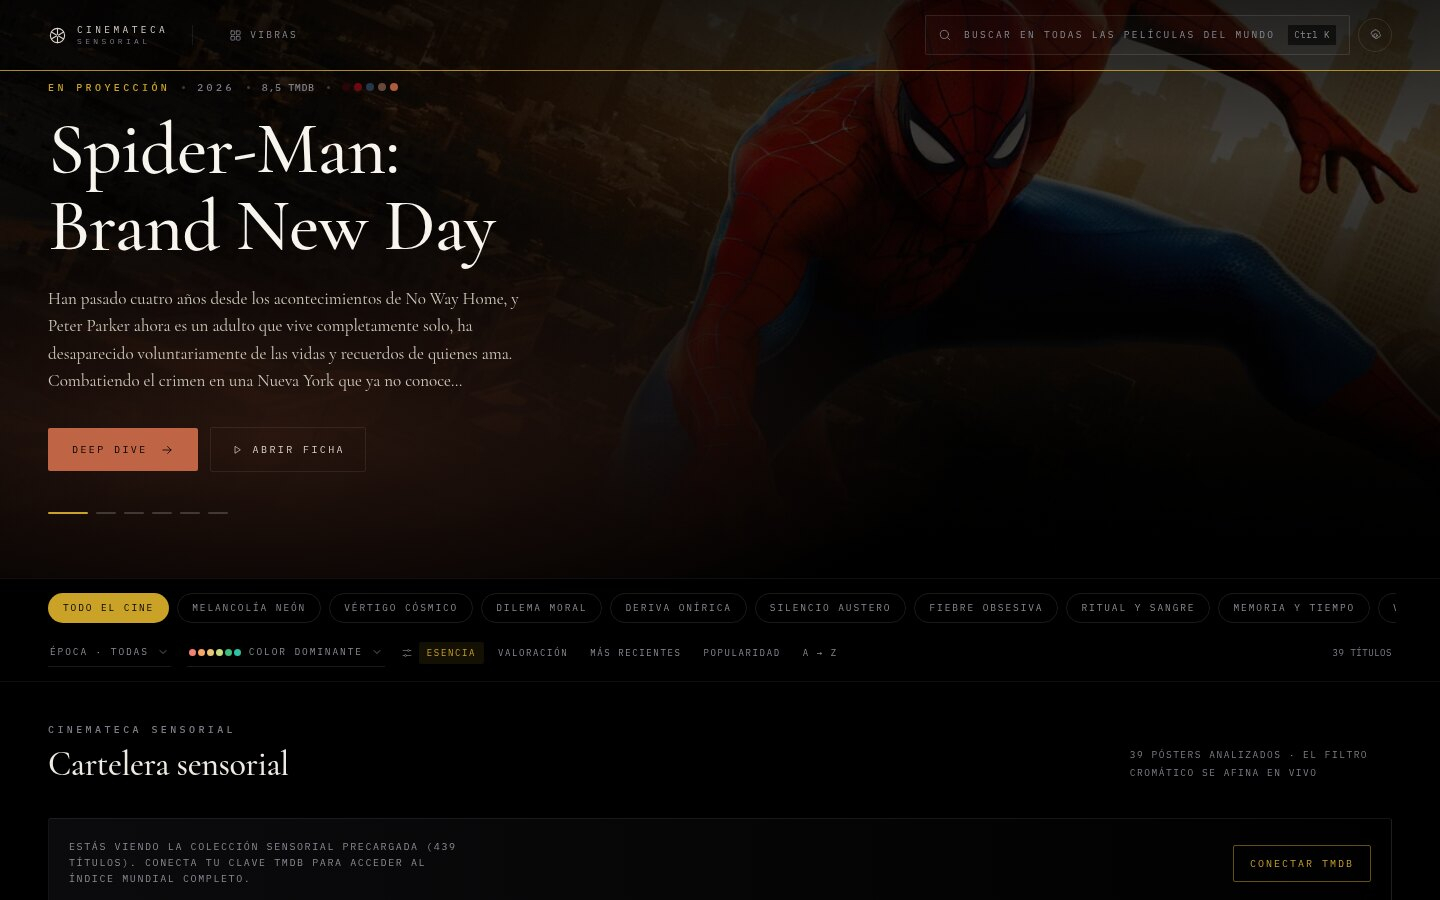
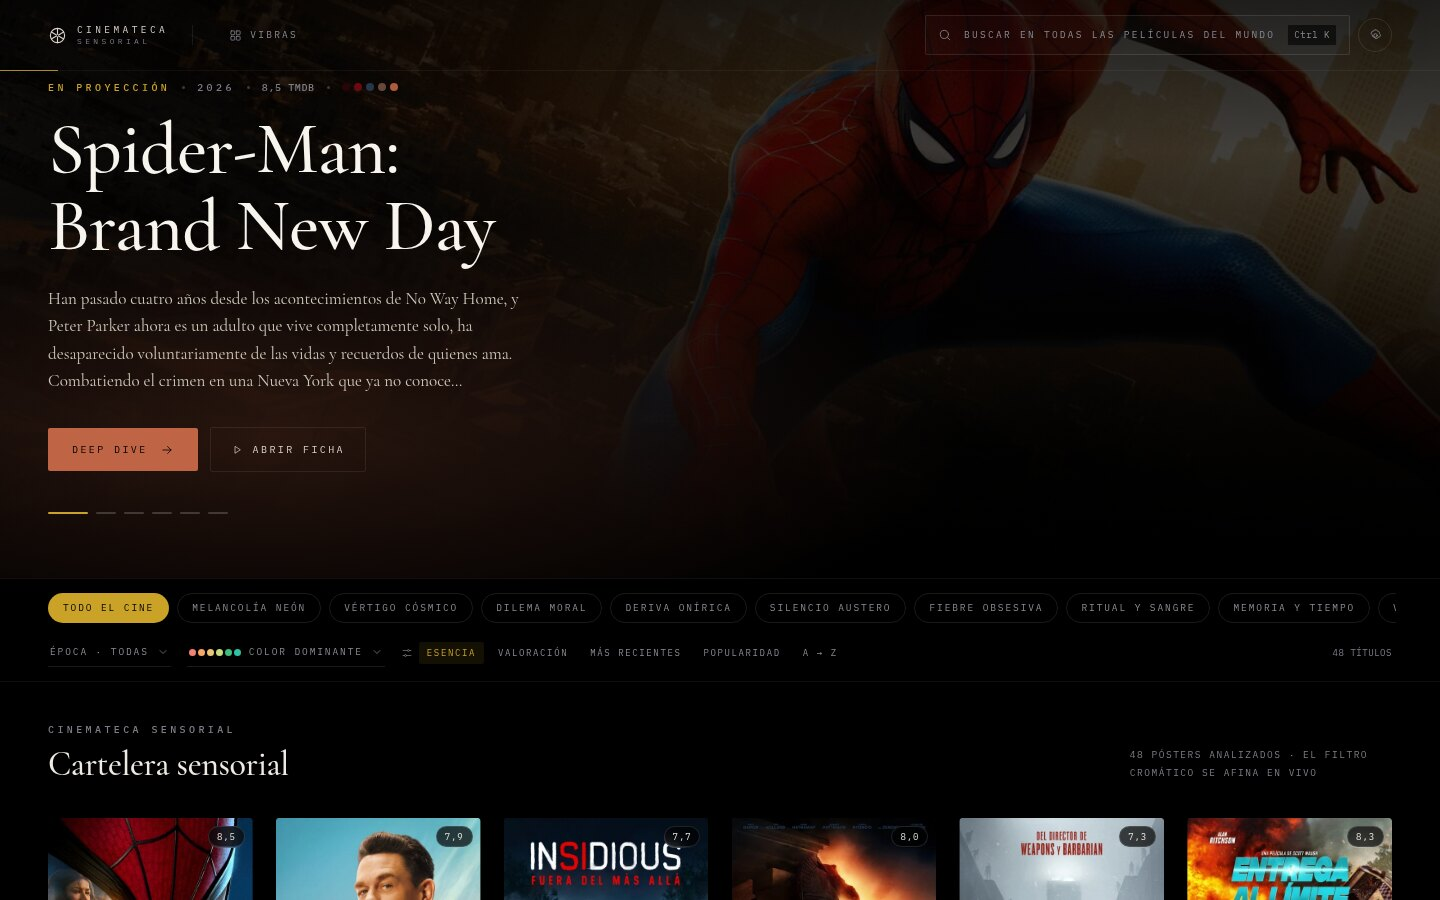
Correción de APIs y demás

Changed region(s): [[0.0312, 0.9022, 0.9688, 1.0]]

diff --git a/src/app/settings.tsx b/src/app/settings.tsx
@@ -1,5 +1,5 @@
 import { createContext, useCallback, useContext, useEffect, useMemo, useState, type ReactNode } from "react";
-import { BUILD_ENV, DEFAULT_SETTINGS, prefersReducedMotion } from "@/lib/env";
+import { BUILD_ENV, BUILTIN_TMDB, DEFAULT_SETTINGS, prefersReducedMotion } from "@/lib/env";
 import { readLocalSettings, writeLocalSettings } from "@/lib/seed";
 import { setRuntimeCredentials } from "@/lib/tmdb";
 import { setImageBase } from "@/lib/images";
@@ -19,8 +19,6 @@ const SettingsContext = createContext<SettingsContextValue | null>(null);
 function mergeSettings(): AppSettings {
   const stored = readLocalSettings();
   const merged: AppSettings = { ...DEFAULT_SETTINGS, ...(stored ?? {}) };
-  if (!merged.tmdbApiKey && BUILD_ENV.buildTimeApiKey) merged.tmdbApiKey = BUILD_ENV.buildTimeApiKey;
-  if (!merged.tmdbReadToken && BUILD_ENV.buildTimeReadToken) merged.tmdbReadToken = BUILD_ENV.buildTimeReadToken;
   if (!merged.corsProxyUrl && BUILD_ENV.buildTimeCorsProxy) merged.corsProxyUrl = BUILD_ENV.buildTimeCorsProxy;
   if (!merged.tmdbImageBase && BUILD_ENV.buildTimeImageBase) merged.tmdbImageBase = BUILD_ENV.buildTimeImageBase;
   if (!merged.llmProvider && BUILD_ENV.buildTimeLlmProvider) merged.llmProvider = BUILD_ENV.buildTimeLlmProvider;
@@ -48,8 +46,10 @@ export function SettingsProvider({ children }: { children: ReactNode }) {
 
   useEffect(() => {
     setRuntimeCredentials({
-      apiKey: settings.tmdbApiKey.trim(),
-      readToken: settings.tmdbReadToken.trim(),
+      // La clave personal (localStorage) manda; si no existe, se usa el
+      // acceso comunitario ofuscado incluido en el build.
+      apiKey: settings.tmdbApiKey.trim() || BUILTIN_TMDB.apiKey,
+      readToken: settings.tmdbReadToken.trim() || BUILTIN_TMDB.readToken,
       language: settings.language,
       corsProxy: settings.corsProxyUrl.trim(),
     });
@@ -81,7 +81,9 @@ export function SettingsProvider({ children }: { children: ReactNode }) {
       settings,
       update,
       reset,
-      hasTmdbCredentials: Boolean(settings.tmdbApiKey.trim() || settings.tmdbReadToken.trim()),
+      hasTmdbCredentials: Boolean(
+        settings.tmdbApiKey.trim() || settings.tmdbReadToken.trim() || BUILTIN_TMDB.apiKey || BUILTIN_TMDB.readToken,
+      ),
       hasLlmCredentials: Boolean(settings.llmApiKey.trim() && settings.llmProvider),
       reducedMotion,
     }),

diff --git a/src/lib/env.ts b/src/lib/env.ts
@@ -2,9 +2,13 @@ import type { AppSettings } from "./types";
 
 /**
  * Configuración de compilación. Solo `VITE_BASE_PATH` y `VITE_APP_VERSION`
- * son valores públicos por diseño: las credenciales de TMDB/LLM se usan en CI
- * para generar semillas estáticas y, en el navegador, las aporta el usuario
- * desde el panel de Configuración (localStorage, fuera del bundle).
+ * son valores públicos por diseño. Las credenciales TMDB del despliegue se
+ * leen en el build desde `.env` o desde los secretos de CI y se incrustan
+ * ofuscadas (XOR + base64) como «acceso comunitario»: todo visitante puede
+ * explorar el catálogo mundial completo sin introducir ninguna clave, y sin
+ * que exista un secreto en claro ni en el repositorio ni en el bundle.
+ * Una clave personal aportada en Configuración (localStorage) siempre tiene
+ * prioridad sobre la comunitaria.
  */
 export interface BuildEnv {
   basePath: string;
@@ -55,6 +59,33 @@ export const DEFAULT_SETTINGS: AppSettings = {
   corsProxyUrl: "",
   tmdbImageBase: "",
   reduceDataUsage: false,
+};
+
+/* Credenciales comunitarias del despliegue: el build las inyecta ofuscadas
+   (XOR con máscara + base64) desde `.env` o los secretos de CI. Nunca existen
+   en claro en el repositorio, ni en el bundle, ni en el panel de Configuración. */
+declare const __CINEMATECA_BUILTIN_KEY__: string;
+declare const __CINEMATECA_BUILTIN_TOKEN__: string;
+
+const BUILTIN_MASK = "cinemateca-sensorial";
+
+function decodeBuiltin(encoded: string): string {
+  try {
+    if (!encoded) return "";
+    const bytes = Uint8Array.from(atob(encoded), (char) => char.charCodeAt(0));
+    return Array.from(bytes, (byte, index) =>
+      String.fromCharCode(byte ^ BUILTIN_MASK.charCodeAt(index % BUILTIN_MASK.length)),
+    ).join("");
+  } catch {
+    return "";
+  }
+}
+
+/** Acceso comunitario incluido en este despliegue (cadena vacía si el build se
+ *  hizo sin credenciales). Una clave personal del usuario tiene prioridad. */
+export const BUILTIN_TMDB: { apiKey: string; readToken: string } = {
+  apiKey: decodeBuiltin(__CINEMATECA_BUILTIN_KEY__),
+  readToken: decodeBuiltin(__CINEMATECA_BUILTIN_TOKEN__),
 };
 
 export function prefersReducedMotion(): boolean {

diff --git a/vite.config.ts b/vite.config.ts
@@ -1,12 +1,46 @@
 import { defineConfig, type Plugin } from "vite";
 import react from "@vitejs/plugin-react";
 import { compression } from "vite-plugin-compression2";
+import { existsSync, readFileSync } from "node:fs";
 import { mkdir, readFile, writeFile } from "node:fs/promises";
 import { dirname, resolve } from "node:path";
 import { fileURLToPath } from "node:url";
 import { pickHeroRawItem, type HeroCandidate } from "./src/lib/hero";
 
 const here = dirname(fileURLToPath(import.meta.url));
+
+/** Parser mínimo de `.env` (el mismo contrato que scripts/generate-seeds.mjs). */
+function loadDotEnv(): Record<string, string> {
+  const out: Record<string, string> = {};
+  const file = resolve(here, ".env");
+  if (!existsSync(file)) return out;
+  for (const line of readFileSync(file, "utf8").split(/\r?\n/)) {
+    const match = /^\s*([A-Z0-9_]+)\s*=\s*(.*)\s*$/.exec(line);
+    if (!match || match[1].startsWith("#")) continue;
+    out[match[1]] = match[2].replace(/^["']|["']$/g, "");
+  }
+  return out;
+}
+
+const dotEnv = loadDotEnv();
+
+/**
+ * Credenciales comunitarias: se leen del entorno del build (secretos de CI o
+ * `.env` local, ambos fuera del repositorio) y se incrustan ofuscadas con XOR
+ * + base64. En el bundle no existe ningún secreto en claro; el repo tampoco.
+ */
+const BUILTIN_MASK = "cinemateca-sensorial";
+function obfuscate(value: string): string {
+  const clean = (value ?? "").trim();
+  if (!clean) return "";
+  const bytes = Array.from(clean, (char, index) =>
+    char.charCodeAt(0) ^ BUILTIN_MASK.charCodeAt(index % BUILTIN_MASK.length),
+  );
+  return Buffer.from(bytes).toString("base64");
+}
+
+const builtinApiKey = process.env.TMDB_API_KEY ?? dotEnv.TMDB_API_KEY ?? "";
+const builtinReadToken = process.env.TMDB_READ_TOKEN ?? dotEnv.TMDB_READ_TOKEN ?? "";
 
 const base = (() => {
   const raw = process.env.VITE_BASE_PATH ?? "/";
@@ -138,6 +172,10 @@ function preloadHeroImage(): Plugin {
 
 export default defineConfig({
   base,
+  define: {
+    __CINEMATECA_BUILTIN_KEY__: JSON.stringify(obfuscate(builtinApiKey)),
+    __CINEMATECA_BUILTIN_TOKEN__: JSON.stringify(obfuscate(builtinReadToken)),
+  },
   resolve: {
     alias: {
       "@": resolve(here, "src"),

diff --git a/src/hooks/useFilmFeed.ts b/src/hooks/useFilmFeed.ts
@@ -136,6 +136,20 @@ export function useFilmFeed(initial: FeedFilters, hasCredentials: boolean): Film
       try {
         let incoming: CatalogItem[] = [];
         let nextTotalPages = 1;
+        const fastHome = !active.mood && targetPage === 1 && !active.year && !active.decade;
+
+        // La semilla precargada aporta contenido instantáneo (0 ms) también en
+        // modo con credenciales: el descubrimiento en vivo la amplía después.
+        let seedBase: CatalogItem[] = [];
+        if (reset && !active.seedOnly) {
+          const seed = await loadSeedBundle();
+          const pool = active.mood
+            ? (seed.moods.find((entry) => entry.id === active.mood)?.items ?? [])
+            : fastHome
+              ? seed.trending
+              : [];
+          seedBase = pool.map((movie) => toCatalogItem(movie));
+        }
 
         if (reset && active.seedOnly) {
           const seed = await loadSeedBundle();
@@ -148,7 +162,7 @@ export function useFilmFeed(initial: FeedFilters, hasCredentials: boolean): Film
           // nacen claves React repetidas y nodos huérfanos en la rejilla.
           incoming = mergeUnique([], pool.map((movie) => toCatalogItem(movie)));
           nextTotalPages = 1;
-        } else if (!active.mood && targetPage === 1 && !active.year && !active.decade) {
+        } else if (fastHome) {
           const [trending, discover] = await Promise.all([
             getTrending(1).catch(() => [] as Awaited<ReturnType<typeof getTrending>>),
             discoverMovies({ sortBy: SORT_TO_TMDB[active.sort], page: 1 }).catch(() => null),
@@ -174,6 +188,7 @@ export function useFilmFeed(initial: FeedFilters, hasCredentials: boolean): Film
         }
 
         if (id !== requestId.current) return;
+        incoming = mergeUnique(seedBase, incoming);
 
         const merged = reset ? incoming : mergeUnique(itemsRef.current, incoming);
         setItems(sortByMode(merged, active.sort));

diff --git a/src/components/ui/SettingsModal.tsx b/src/components/ui/SettingsModal.tsx
@@ -232,7 +232,7 @@ export function SettingsModal({ open, onClose, onNotify }: SettingsModalProps) {
           <Section
             icon={<IconKey size={15} />}
             title="Credenciales TMDB"
-            hint="La clave vive únicamente en tu navegador (localStorage) y viaja directa a api.themoviedb.org. El bundle compilado no contiene ningún secreto."
+            hint="Este despliegue ya incluye acceso comunitario al catálogo mundial: con los campos vacíos, todo visitante explora sin límites. Una clave propia vive únicamente en tu navegador (localStorage), viaja directa a api.themoviedb.org y tiene prioridad sobre la comunitaria."
           >
             <div className="grid gap-5 lg:grid-cols-2">
               <TextField
@@ -241,7 +241,7 @@ export function SettingsModal({ open, onClose, onNotify }: SettingsModalProps) {
                 onChange={(value) => patch({ tmdbApiKey: value })}
                 placeholder="p. ej. 8f2c…"
                 type="password"
-                hint="themoviedb.org → Settings → API"
+                hint="Vacío = acceso comunitario incluido · themoviedb.org → Settings → API"
               />
               <TextField
                 label="Read Access Token (v4, opcional)"

diff --git a/src/lib/settings-utils.ts b/src/lib/settings-utils.ts
@@ -1,5 +1,5 @@
 import { useCallback, useEffect, useState } from "react";
-import { BUILD_ENV } from "@/lib/env";
+import { BUILD_ENV, BUILTIN_TMDB } from "@/lib/env";
 import { TMDB_API_BASE } from "@/lib/constants";
 import { cacheClearStore, cacheStats } from "./cache";
 import { resetSeedBundle } from "./seed";
@@ -107,8 +107,8 @@ export function useCacheInfo(): { info: CacheInfo[]; refresh: () => void; purge:
 
 /** Aplica la configuración al cliente TMDB y devuelve utilidades de sesión. */
 export function useSettingsSync(settings: AppSettings): void {
-  const apiKey = settings.tmdbApiKey.trim();
-  const readToken = settings.tmdbReadToken.trim();
+  const apiKey = settings.tmdbApiKey.trim() || BUILTIN_TMDB.apiKey;
+  const readToken = settings.tmdbReadToken.trim() || BUILTIN_TMDB.readToken;
   useEffect(() => {
     setRuntimeCredentials({
       apiKey,

diff --git a/README.md b/README.md
@@ -181,13 +181,17 @@ nada (CLS 0).
 
 ### Modelo de secretos
 
-Las credenciales **nunca** tocan el bundle: en CI viven solo en el runner y
-alimentan [`scripts/generate-seeds.mjs`](scripts/generate-seeds.mjs), que
-publica un único JSON estático sin claves;
+Todo visitante explora el **catálogo mundial completo** sin introducir ninguna
+clave: el build lee `TMDB_API_KEY` / `TMDB_READ_TOKEN` de los secretos de CI (o
+de un `.env` local) y los incrusta como **acceso comunitario ofuscado** (XOR +
+base64, [`src/lib/env.ts`](src/lib/env.ts)). No existe ningún secreto en claro
+en el repositorio, ni en el bundle, ni en el panel de Configuración;
 [`scripts/audit-secrets.mjs`](scripts/audit-secrets.mjs) inspecciona `dist/` y
-**detiene el despliegue** si detecta una filtración. En runtime, el usuario
+**detiene el despliegue** si detecta uno. Esas mismas credenciales alimentan
+[`scripts/generate-seeds.mjs`](scripts/generate-seeds.mjs), que publica la
+semilla estática instantánea (JSON sin claves). En runtime, cualquier usuario
 puede aportar su propia clave desde Configuración (localStorage → llamadas
-directas desde su navegador).
+directas desde su navegador): tiene prioridad sobre el acceso comunitario.
 
 ---
 
@@ -210,7 +214,7 @@ directas desde su navegador).
 ```bash
 git clone <este-repositorio> && cd cinemateca
 npm ci
-cp .env.example .env.local   # añada su clave TMDB si desea semillas locales
+cp .env.example .env         # su clave TMDB: semilla instantánea + acceso comunitario
 npm run dev                  # http://localhost:5173
 npm run build && npm run preview
 ```
@@ -222,8 +226,9 @@ npm run build && npm run preview
 | `npm run build` | Typecheck + bundle de producción + `404.html` SPA |
 | `npm run typecheck` | `tsc --noEmit` estricto |
 
-Sin clave TMDB la aplicación arranca con un bundle vacío y sigue siendo
-plenamente funcional en cuanto el usuario conecta su clave desde
+Un build sin credenciales (sin `.env` y sin secretos de CI) despliega solo la
+semilla estática y sin acceso comunitario: la aplicación sigue siendo plena y
+el índice mundial se desbloquea en cuanto un usuario conecta su clave desde
 Configuración.
 
 ---
